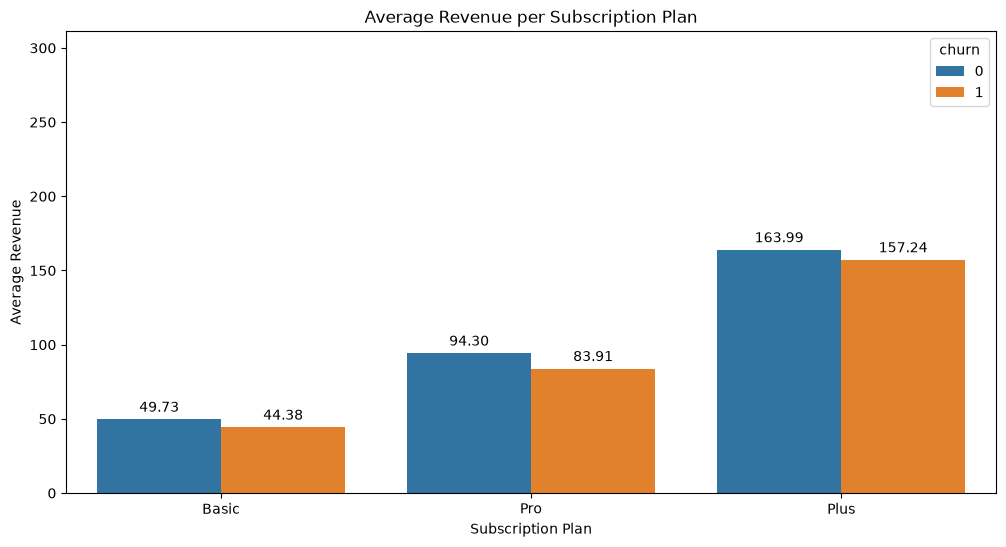
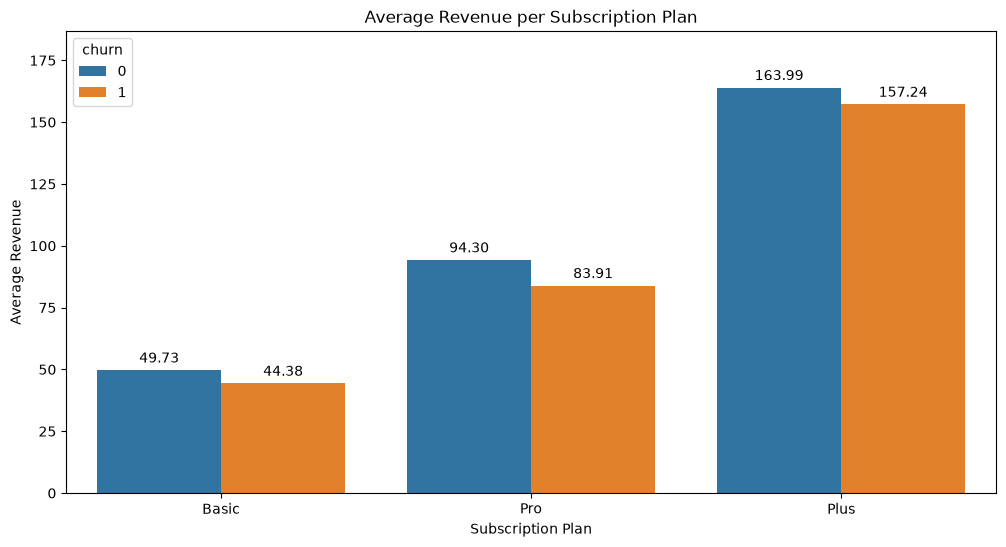
fix image size

diff --git a/Analysis_4_Customer_Loyalty/executive_summary.md b/Analysis_4_Customer_Loyalty/executive_summary.md
@@ -10,4 +10,4 @@
 ## Results
 | | |
 ---|---
-**_Initial FIndings_**<br>Retained customers spends an average of `$5`-`$10` higher than churned customers.<br>High total revenue loss due to churn is mainly driven by its large proportion to the total population.<br>Customer churn probability lowers as Monthly Spending increases.<br><br>**_Hypothesis Testing_**<br>Monthly Spending remains significant on both isolated and controlled test, indicating that Spending Behavior is the main driver of customer churn.|<img src='images/image.png' width='55%'> <img src='images/image-1.png' width='37%'><img src='images/image-2.png' width='70%'><img src='images/image-4.png' width='65%'>
+**_Initial FIndings_**<br>Retained customers spends an average of `$5`-`$10` higher than churned customers.<br>High total revenue loss due to churn is mainly driven by its large proportion to the total population.<br>Customer churn probability lowers as Monthly Spending increases.<br><br>**_Hypothesis Testing_**<br>Monthly Spending remains significant on both isolated and controlled test, indicating that Spending Behavior is the main driver of customer churn.|<img src='images/image.png' width='55%'> <img src='images/image-1.png' width='37%'><img src='images/image-2.png' width='70%'><img src='images/image-4.png' width='65%'>![alt text](image.png)
